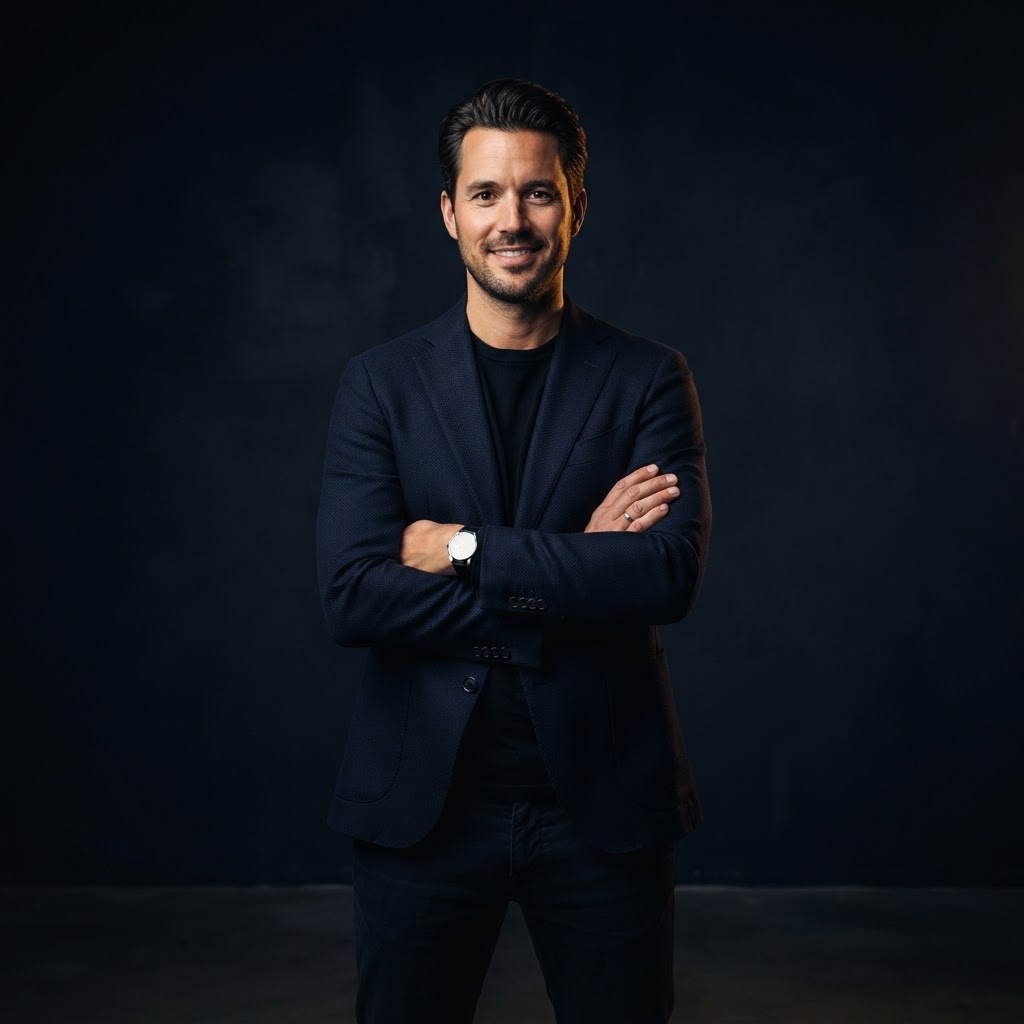
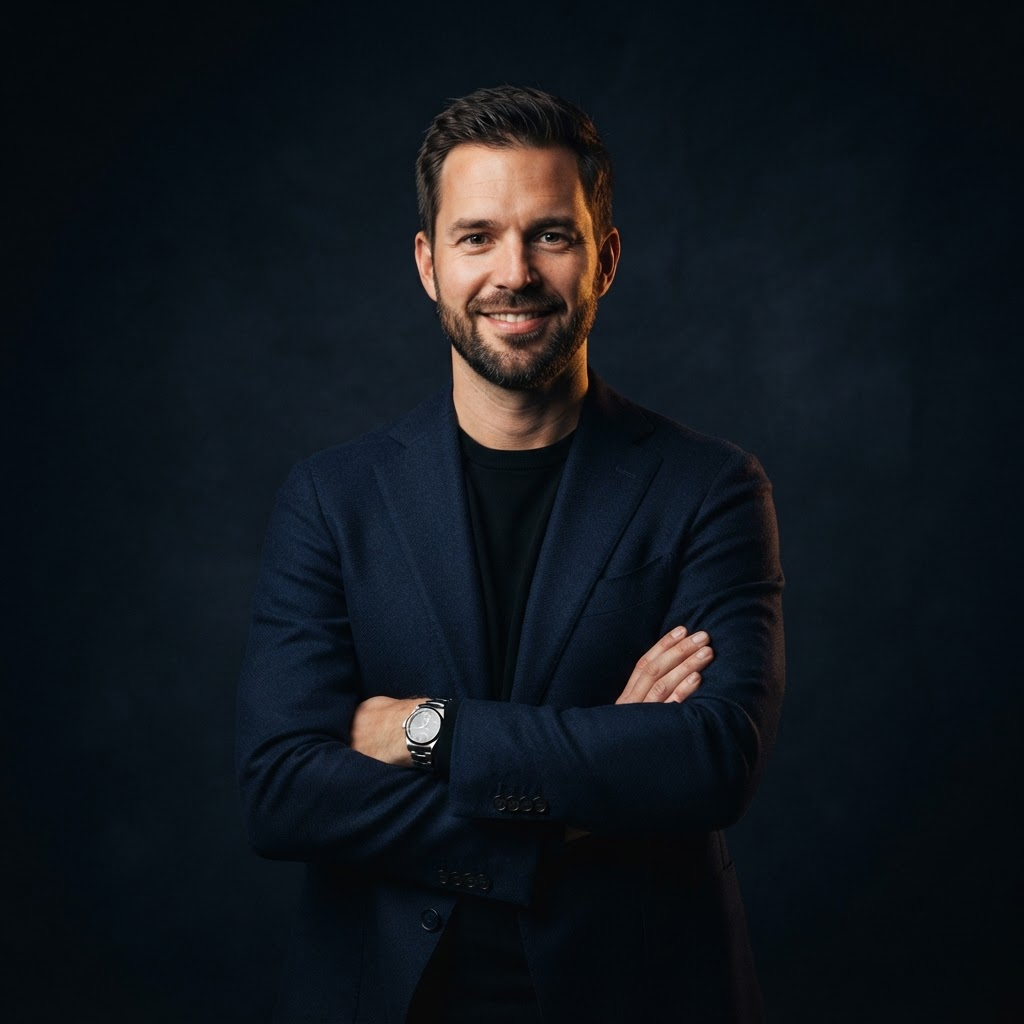
fix: nieuwe founderfoto in vaste 3:4-kader, zachtere statscijfers
Founderfoto vervangen door de opnieuw gegenereerde volledige
portretversie, getoond in een vaste 3:4-container met afgeronde
hoeken op alle zijden, volledig zichtbaar zonder afsnijding.
Cijfers en labels in de statsband van bijna zwart naar een zachter
off-black (#171717) met 75% dekking op de labels.

diff --git a/app/page.tsx b/app/page.tsx
@@ -128,13 +128,16 @@ export default async function ArnoBotLandingPage() {
         }
 
         .hero-photo-glow {
-          position: absolute; inset: -16px; border-radius: 24px 24px 0 0;
+          position: absolute; inset: -16px; border-radius: 24px;
           background: rgba(245,158,11,0.1); filter: blur(32px);
         }
-        .hero-photo {
-          position: relative; width: 100%; height: auto; display: block;
-          border-radius: 24px 24px 0 0; object-fit: cover;
+        .hero-photo-frame {
+          position: relative; width: 100%; aspect-ratio: 3 / 4; border-radius: 24px;
+          overflow: hidden; background: #0d1117;
           box-shadow: 0 32px 64px rgba(0,0,0,0.5);
+        }
+        .hero-photo {
+          width: 100%; height: 100%; display: block; object-fit: contain;
         }
 
         /* ── FEATURE GRID ── */
@@ -166,8 +169,8 @@ export default async function ArnoBotLandingPage() {
         /* ── STATS BAND ── */
         .stats-band { background: #f59e0b; padding: 80px 40px; }
         .stats-grid { margin: 0 auto; max-width: 1152px; display: grid; grid-template-columns: repeat(3, 1fr); gap: 48px; text-align: center; }
-        .stat-num { font-family: 'Oswald', sans-serif; font-size: clamp(48px, 6vw, 72px); font-weight: 600; color: #111827; }
-        .stat-label { font-size: 18px; font-weight: 500; color: rgba(17,24,39,0.8); margin-top: 8px; }
+        .stat-num { font-family: 'Oswald', sans-serif; font-size: clamp(48px, 6vw, 72px); font-weight: 600; color: #171717; }
+        .stat-label { font-size: 18px; font-weight: 500; color: rgba(23,23,23,0.75); margin-top: 8px; }
 
         /* ── TESTIMONIALS ── */
         .testimonial-section { margin: 0 auto; max-width: 1152px; padding: 96px 40px; }
@@ -264,7 +267,9 @@ export default async function ArnoBotLandingPage() {
           </div>
           <div className="hero-photo-col">
             <div className="hero-photo-glow" aria-hidden="true" />
-            <img src="/team-founder.png" alt="De oprichter van ArnoBot, sales coach" className="hero-photo" />
+            <div className="hero-photo-frame">
+              <img src="/team-founder.png" alt="De oprichter van ArnoBot, sales coach" className="hero-photo" />
+            </div>
           </div>
         </div>
       </section>
